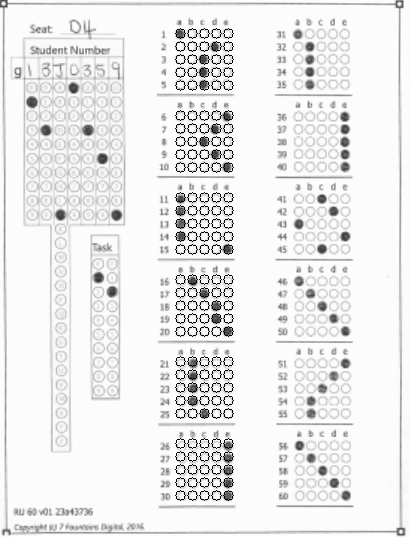
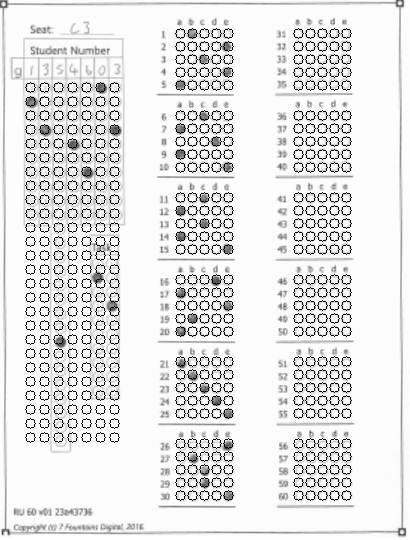
grade mcq

diff --git a/mcq2.py b/mcq2.py
@@ -1,6 +1,82 @@
 import cv2
 import numpy as np
+from typing import Final
 from pdf2image import convert_from_path
+import csv
+
+MEMO: Final = np.array([
+    [1,0,0,0,0],
+    [0,0,1,0,0],
+    [0,1,0,0,0],
+    [0,0,0,1,0],
+    [0,0,0,0,1],
+
+    [0,1,0,0,0],
+    [1,0,0,0,0],
+    [0,0,0,0,1],
+    [0,0,1,0,0],
+    [0,0,0,1,0],
+
+    [0,0,0,1,0],
+    [0,1,0,0,0],
+    [0,0,0,0,1],
+    [1,0,0,0,0],
+    [0,0,1,0,0],
+
+    [0,0,1,0,0],
+    [0,0,0,1,0],
+    [1,0,0,0,0],
+    [0,1,0,0,0],
+    [0,0,0,0,1],
+
+    [0,0,0,0,1],
+    [0,0,1,0,0],
+    [0,1,0,0,0],
+    [0,0,0,1,0],
+    [1,0,0,0,0],
+
+    [1,0,0,0,0],
+    [0,0,0,1,0],
+    [0,0,1,0,0],
+    [0,1,0,0,0],
+    [0,0,0,0,1],
+
+    [0,1,0,0,0],
+    [0,0,0,0,1],
+    [1,0,0,0,0],
+    [0,0,1,0,0],
+    [0,0,0,1,0],
+
+    [0,0,0,1,0],
+    [1,0,0,0,0],
+    [0,1,0,0,0],
+    [0,0,0,0,1],
+    [0,0,1,0,0],
+
+    [0,0,1,0,0],
+    [0,0,0,0,1],
+    [0,0,0,1,0],
+    [1,0,0,0,0],
+    [0,1,0,0,0],
+
+    [0,1,0,0,0],
+    [0,0,1,0,0],
+    [0,0,0,1,0],
+    [0,0,0,0,1],
+    [1,0,0,0,0],
+
+    [0,0,0,0,1],
+    [0,1,0,0,0],
+    [1,0,0,0,0],
+    [0,0,1,0,0],
+    [0,0,0,1,0],
+
+    [1,0,0,0,0],
+    [0,0,1,0,0],
+    [0,1,0,0,0],
+    [0,0,0,0,1],
+    [0,0,0,0,1],
+ ], dtype=int)
 
 def read_pdf(path):
     images = []
@@ -37,9 +113,9 @@ def crop_region(img, x, y, w, h):
 #738 144
 #184.5 36
 #179, 33
-def map_grid(img):
+def map_student_grid(img, tl):
     f = np.zeros((30, 5), dtype=np.uint8)
-    tl = (180, 33)
+    # tl = (180, 33)
     
     def group(tl, x_gap, y_gap, row_offset):
         for j in range(5):
@@ -51,10 +127,64 @@ def map_grid(img):
     for g in range(6):
         group((tl[0], tl[1]+(g*82)), 12, 13, row_offset=g*5)
     
-    print(f)
+    return np.array(f)
 
+def map_details_grid(img, tl):
+    f = np.zeros((26, 7), dtype=np.uint8)
+    # tl = (180, 33)
+    
+    def group(tl, x_gap, y_gap):
+        for j in range(26):
+            for i in range(7):
+                filled = is_circle_filled(img, cx=tl[0]+(x_gap*i), cy=tl[1]+(y_gap*j), radius=5)
+                f[j][i] = filled
+                cv2.circle(img, (tl[0]+(x_gap*i), tl[1]+(y_gap*j)), 5, (0, 255, 0), 1)
 
-def is_circle_filled(img, cx, cy, radius, threshold=127, fill_ratio=0.5):
+    group((tl[0], tl[1]+(82)), 14, 14)
+    
+    return np.array(f)
+                    
+
+def get_student_ans(img):
+    c1 = map_student_grid(img, (180, 33))
+    c2 = map_student_grid(img, (298, 33))
+    grid= np.concatenate((c1, c2), axis=0)
+
+    letters = "ABCDE"
+    answers = []
+    for q in grid:
+        blank = True
+        for i in range(5):
+            if q[i] == 1:
+                answers.append(letters[i])
+                blank = False
+                break
+        if blank:
+            answers.append("_")
+        
+
+    return grid, answers
+
+def get_student_num(img):
+    student_num = "g"
+    student_num_grid = map_details_grid(img, (30, 5))
+    alphabet = "ABCDEFGHIJKLMNOPQRSTUVWXYZ"
+    for j in range(2):
+        for i in range(len(student_num_grid[0:10, j])):
+            if (student_num_grid[0:10, j][i] == 1):
+                student_num += str(i)
+    
+    for i in range(len(student_num_grid[:, 2])):
+        if (student_num_grid[:, 2][i] == 1):
+            student_num += alphabet[i]
+
+    for j in range(3, 7):
+        for i in range(len(student_num_grid[0:10, j])):
+            if (student_num_grid[0:10, j][i] == 1):
+                student_num += str(i)
+    return student_num
+
+def is_circle_filled(img, cx, cy, radius, threshold=180, fill_ratio=0.5):
     # create a mask for the circle
     mask = np.zeros(img.shape, dtype=np.uint8)
     cv2.circle(mask, (cx, cy), radius, 255, -1)  # -1 fills the circle
@@ -68,10 +198,17 @@ def is_circle_filled(img, cx, cy, radius, threshold=127, fill_ratio=0.5):
     
     return ratio > fill_ratio  # True if mostly filled/dark
 
-    
+def grade(answers, memo):
+    corr = 0
+
+    for i in range(len(memo)):
+        if (answers[i] == memo[i]).all():
+            corr += 1
+
+    return corr, len(memo)
 
 def main():
-    example = read_pdf("MCQ_600dpi_2016.pdf")[2]
+    example = read_pdf("MCQ_600dpi_2016.pdf")[3]
     example = cv2.resize(example, None, fx=0.25, fy=0.25, interpolation=cv2.INTER_AREA)
 
     template_img = cv2.imread("template.png", cv2.IMREAD_GRAYSCALE)
@@ -84,8 +221,24 @@ def main():
     al = align_to_template(template_img, example)
     region = crop_region(al, x, y, w, h)
 
-    map_grid(region)
+    # map_grid(region, (180, 33))
+    # map_grid(region, (298, 33))
+    student_ans = get_student_ans(region)
+    # student_num = map_details_grid(region, (30, 5))
+    student_num = get_student_num(region)
+    print(get_student_num(region))
+    print(student_ans[1])
+    print(grade(student_ans[0], MEMO))
     cv2.imwrite("f_out.png", region)
+
+    data = [["question", "answer"]]
+
+    for i, ans in enumerate(student_ans[1], start=1):
+        data.append([i, ans])
+
+    with open(f"mcq_{student_num}.csv", 'w', newline='') as file:
+        writer = csv.writer(file)
+        writer.writerows(data) # Writes all rows at once
 
 if __name__ == "__main__":
     main()
